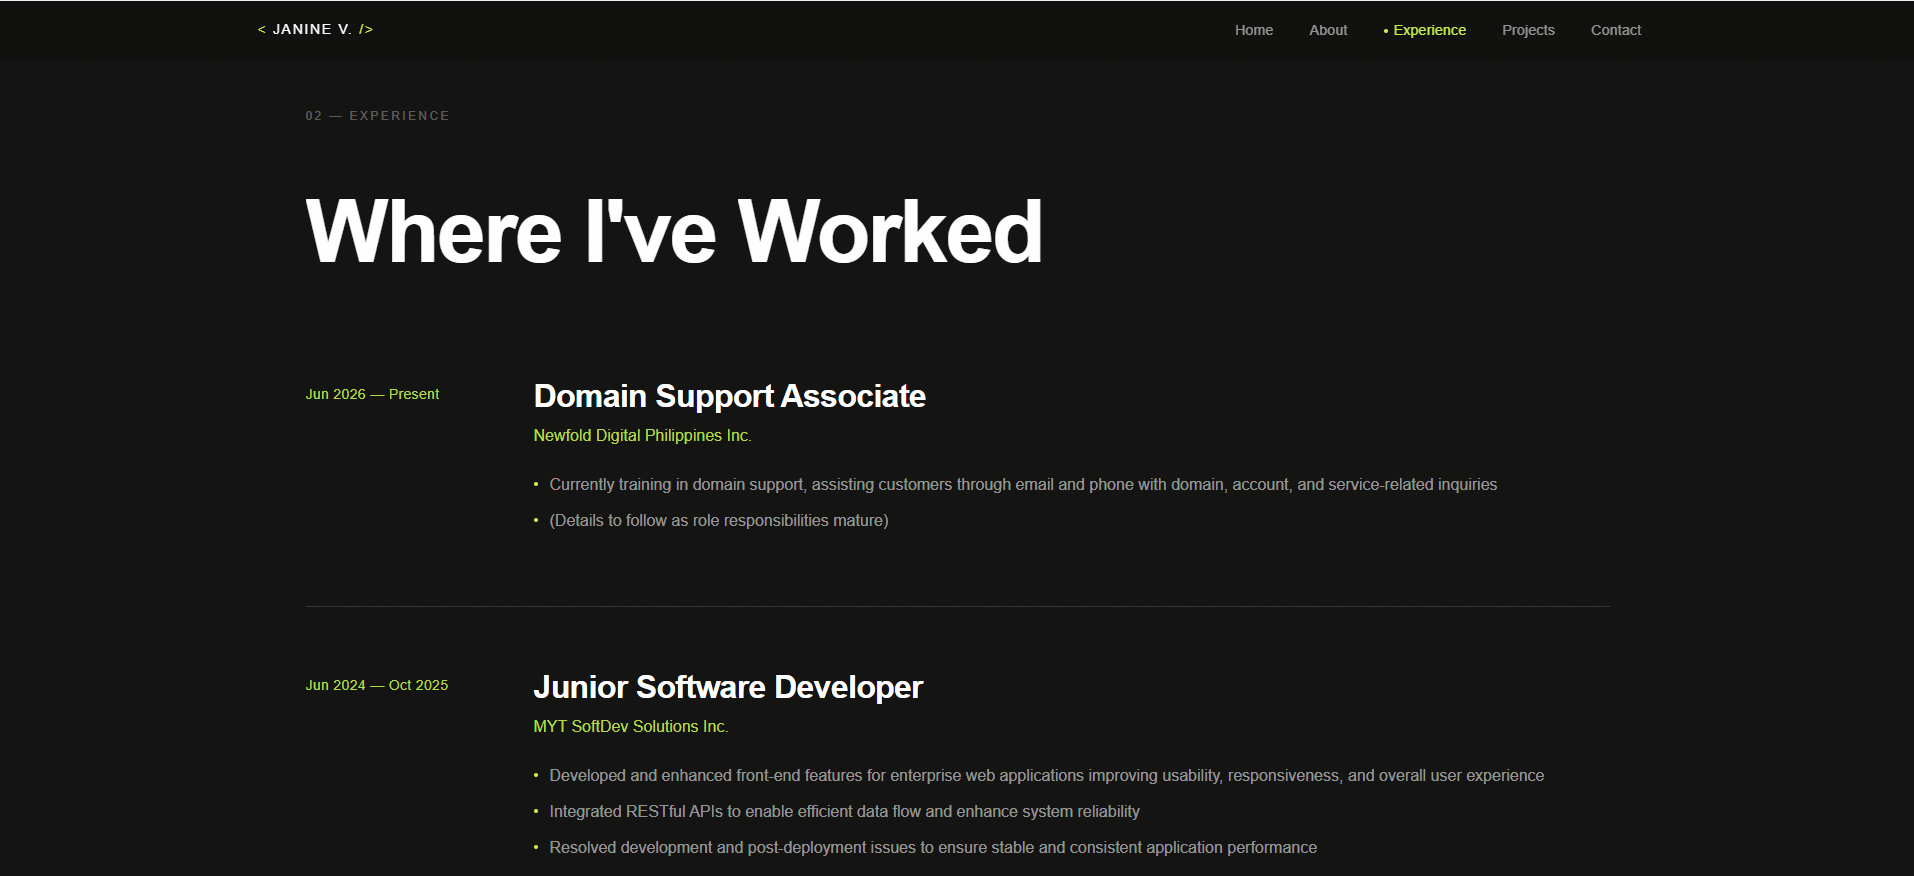
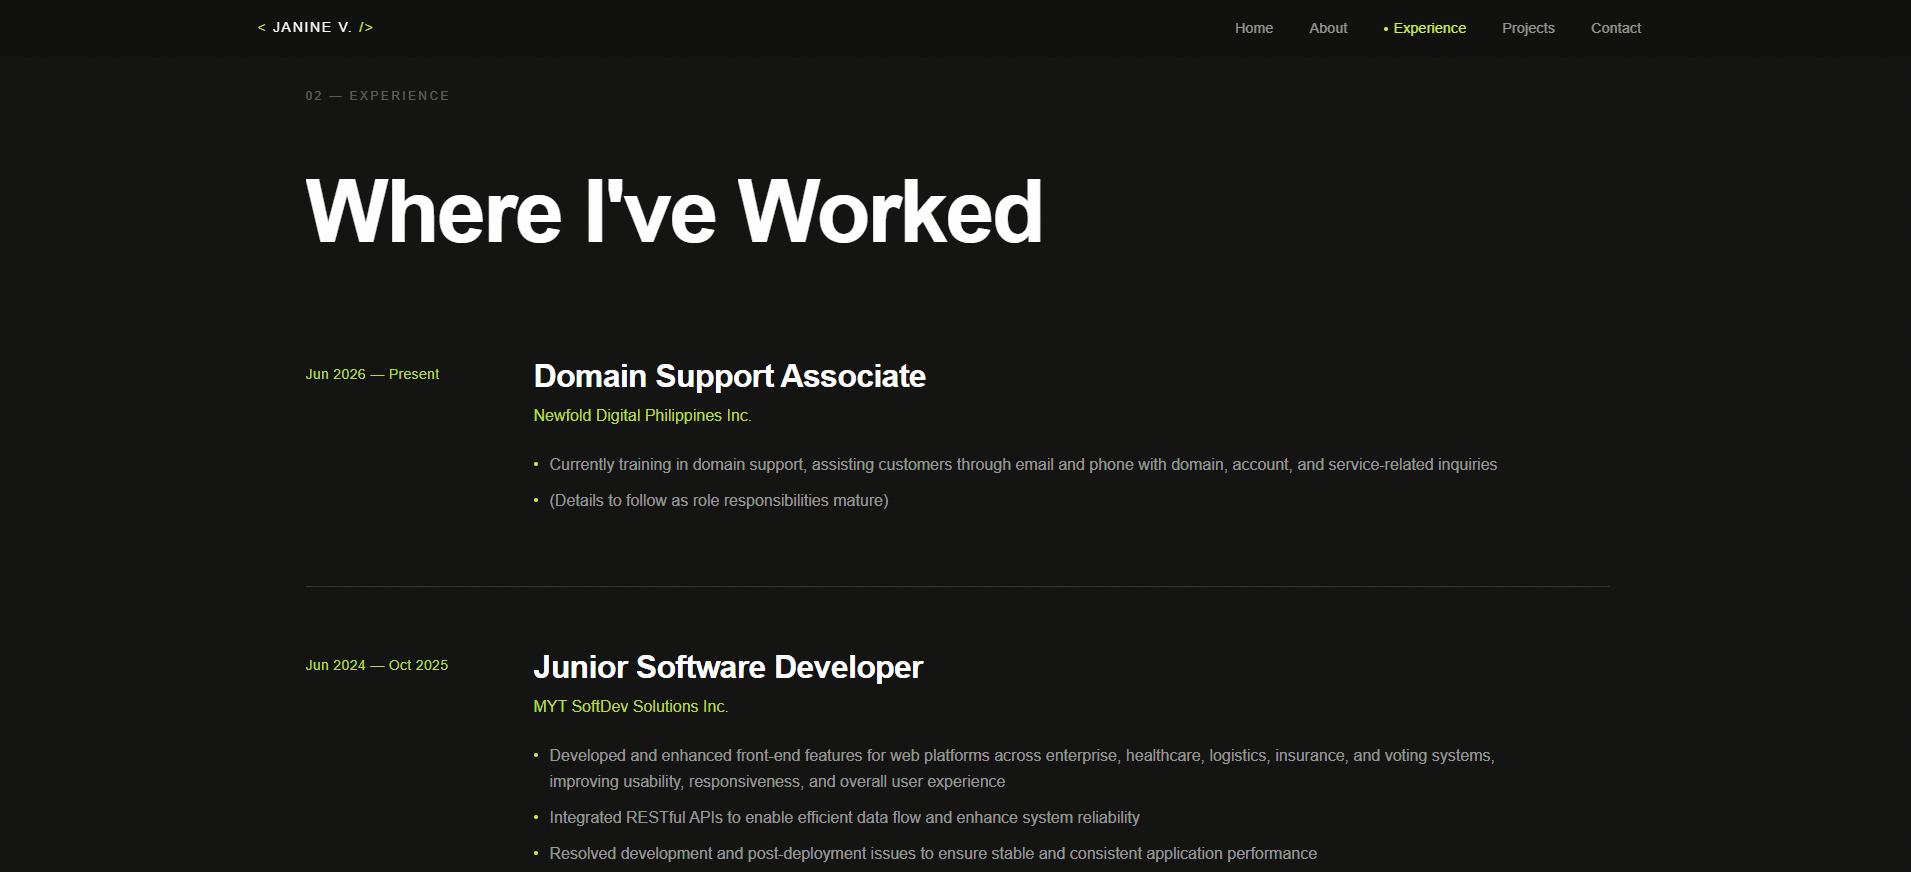
fix: updated portfolio description for clarity and specificity

diff --git a/src/lib/data.ts b/src/lib/data.ts
@@ -320,7 +320,7 @@ export const portfolio = {
       role: "Junior Software Developer",
       period: "Jun 2024 — Oct 2025",
       description: [
-        " Developed and enhanced front-end features for enterprise web applications improving usability, responsiveness, and overall user experience",
+        "Developed and enhanced front-end features for web platforms across enterprise, healthcare, logistics, insurance, and voting systems, improving usability, responsiveness, and overall user experience",
         " Integrated RESTful APIs to enable efficient data flow and enhance system reliability",
         " Resolved development and post-deployment issues to ensure stable and consistent application performance",
         " Assisted in deployment activities and gained exposure to cPanel environments, including basic hosting, deployment coordination, and production issue verification",